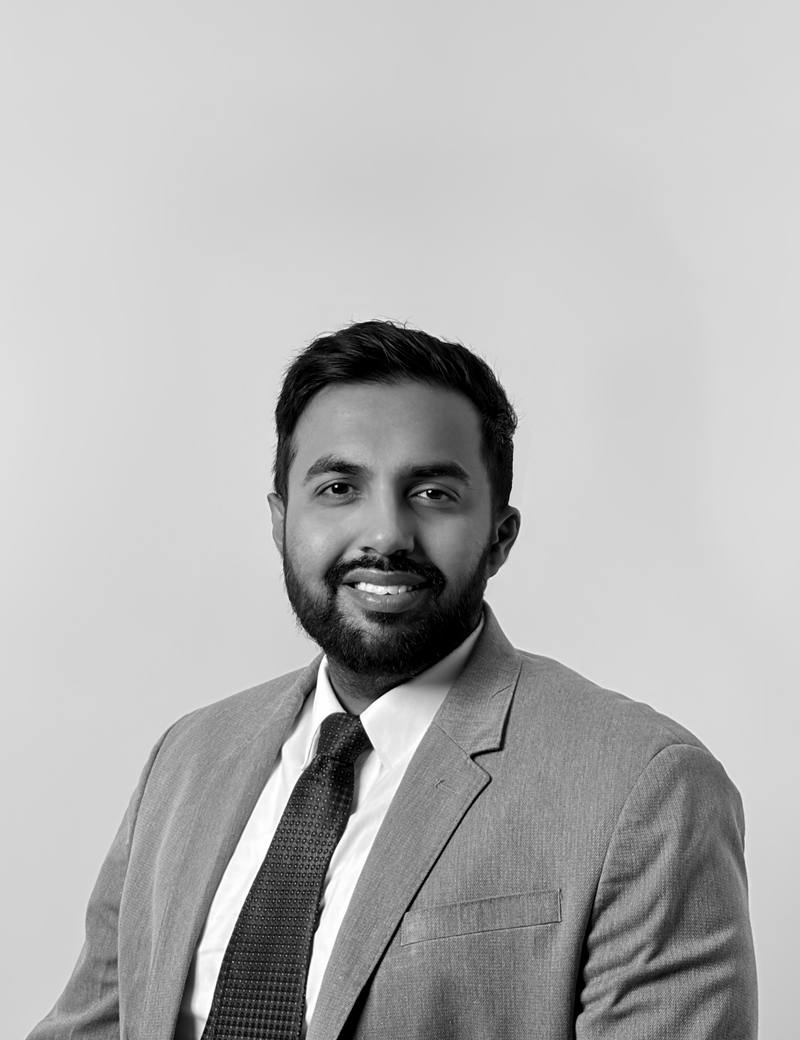
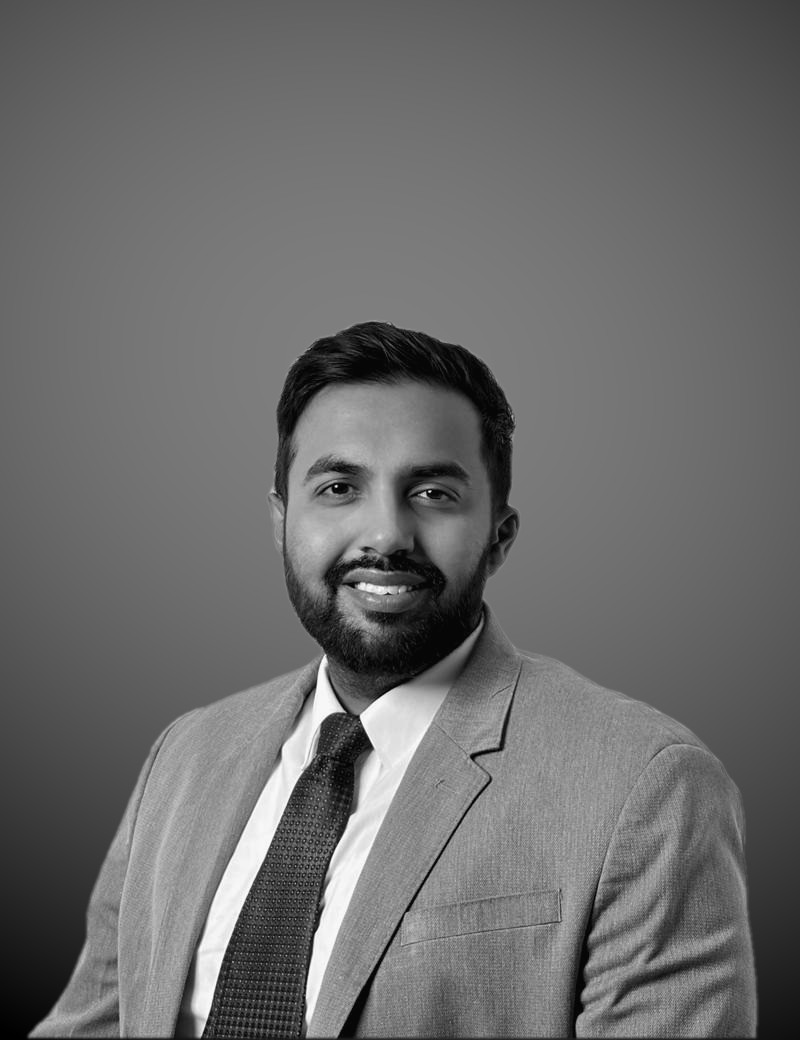
Put every portrait on one backdrop
Nine headshots from five shoots: a white cut-out, a near-black wall, two
different greys and the new 2026 set. Side by side in a four-across wall
they read as nine photographs, not one team.

The five new shots go in — Saurabh, Amit, Dhawal, Sanjay, and Ramesh,
who had an initials tile until now — and every portrait is rebuilt the
same way: greyscale, cropped so the face box is a third of the frame at
the same height, one tonal range, 720x960.

Sumit and Asif could not be matched by levels alone, so they are
composited onto the new set's backdrop, fitted as a quadratic from the
2026 shots. A threshold matte ate Asif's hair and glasses — both wall
and man sit in the same values — so the silhouette comes from Vision's
person segmentation. The founders keep their framing and resolution and
take the same ground.

Geetika's placeholder tile becomes a CSS approximation of that backdrop
too, so the one card with no photograph stops glaring out of the row.

scripts/portraits holds the pipeline; her headshot goes through it when
it arrives.

diff --git a/app/globals.css b/app/globals.css
@@ -2630,10 +2630,12 @@ html.is-locked body{overflow:hidden!important;height:100%!important;
 /* Greyscale in CSS, not on disk: nine photographs shot in nine places read as
    one set this way, and the colour originals stay untouched. */
 /* Stands in for a headshot the client has not sent: the person's initials on
-   the same soft grey the shot sits on while it loads. */
+   the studio backdrop the portraits were shot against, so the empty card sits
+   in the row instead of glaring out of it. */
 .tr-init{position:absolute;inset:0;display:grid;place-items:center;
-  background:var(--band-soft);color:#A9B0B7;font-weight:300;
-  font-size:2.4444rem;letter-spacing:.02em}
+  background:radial-gradient(115% 80% at 50% 33%,
+    #7f7f7f 0%,#646464 45%,#4c4c4c 72%,#101010 100%);
+  color:#C2C7CC;font-weight:300;font-size:2.4444rem;letter-spacing:.02em}
 .tr-shot img{object-fit:cover;filter:grayscale(1) contrast(1.04);
   transition:transform .6s var(--ease-out)}
 .tr-card:hover .tr-shot img,.tr-card:focus-visible .tr-shot img{transform:scale(1.04)}
@@ -2687,9 +2689,6 @@ html.is-locked body{overflow:hidden!important;height:100%!important;
 .tr-ovshot>span{position:relative;display:block;aspect-ratio:4/5;border-radius:10px;
   overflow:hidden;background:#fff}
 .tr-ovshot img{object-fit:cover;filter:grayscale(1)}
-/* The panel's own ground is that same soft grey, so the tile takes the frame's
-   white here or it disappears into the panel. */
-.tr-ovshot .tr-init{background:#fff}
 .tr-ovshot i{display:block;height:1px;margin-top:20px;background:var(--line)}
 .tr-close{position:absolute;top:24px;right:24px;width:46px;height:46px;border:0;
   border-radius:999px;display:grid;place-items:center;cursor:pointer;

diff --git a/lib/content/gamcs.ts b/lib/content/gamcs.ts
@@ -224,12 +224,12 @@ export const team = {
     { name: "Abhinav Aggarwal", title: "Co-Founder | FP&A, BI & Transformation Specialist", experience: "10+ years", location: "Delhi, India", linkedinUrl: "https://www.linkedin.com/in/abhinav-aggarwal-a29078172/", photo: "/team/abhinav-aggarwal-bw.jpg", email: "abhinav.aggarwal@gamcs.in" },
   ],
   /* Order is the client's: it is what the page prints, four to a row.
-     Ramesh and Geetika have no headshot or title yet, so their cards carry
-     an initials tile and the generic "Advisor" — both are placeholders,
-     waiting on the client. A card with no `photo` renders the tile. */
+     Ramesh has his headshot but no title yet, and Geetika has neither, so
+     "Advisor" stands in for both and her card carries an initials tile.
+     A card with no `photo` renders the tile. */
   advisory: [
     { name: "Sumit Chatterjee", title: "Shared Services Operations", experience: "30+ years", photo: "/team/sumit-chatterjee.jpg" },
-    { name: "Ramesh Yadav", title: "Advisor" },
+    { name: "Ramesh Yadav", title: "Advisor", photo: "/team/ramesh-yadav.jpg" },
     { name: "Amit Garg", title: "Audit & IPO Advisor", photo: "/team/amit-garg.jpg" },
     { name: "Dhawal Parvatikar", title: "Strategic Finance & CFO Advisory", experience: "15+ years", location: "Dubai, UAE", photo: "/team/dhawal-parvatikar.jpg" },
     { name: "Asif Masani", title: "BI & Analytics, FP&A Automation Specialist", experience: "15+ years", location: "Mumbai, India", photo: "/team/asif-masani.jpg" },

diff --git a/scripts/portraits/segment.swift b/scripts/portraits/segment.swift
@@ -1,0 +1,30 @@
+import Foundation
+import Vision
+import AppKit
+import CoreImage
+
+// segment <in> <outMaskPng>   — person mask at the image's own size, white = person.
+let args = Array(CommandLine.arguments.dropFirst())
+guard args.count == 2,
+      let img = NSImage(contentsOfFile: args[0]),
+      let cg = img.cgImage(forProposedRect: nil, context: nil, hints: nil) else {
+    FileHandle.standardError.write("usage: segment in.jpg mask.png\n".data(using: .utf8)!); exit(1)
+}
+let req = VNGeneratePersonSegmentationRequest()
+req.qualityLevel = .accurate
+req.outputPixelFormat = kCVPixelFormatType_OneComponent8
+let handler = VNImageRequestHandler(cgImage: cg, options: [:])
+try handler.perform([req])
+guard let pb = (req.results?.first)?.pixelBuffer else { print("NONE"); exit(2) }
+let ci = CIImage(cvPixelBuffer: pb)
+let scale = CGAffineTransform(scaleX: CGFloat(cg.width) / ci.extent.width,
+                              y: CGFloat(cg.height) / ci.extent.height)
+let scaled = ci.transformed(by: scale)
+let ctx = CIContext()
+guard let out = ctx.createCGImage(scaled, from: CGRect(x: 0, y: 0, width: cg.width, height: cg.height)),
+      let dest = CGImageDestinationCreateWithURL(URL(fileURLWithPath: args[1]) as CFURL, "public.png" as CFString, 1, nil) else {
+    print("FAIL"); exit(3)
+}
+CGImageDestinationAddImage(dest, out, nil)
+CGImageDestinationFinalize(dest)
+print("\(cg.width)x\(cg.height)")

diff --git a/scripts/portraits/faces.swift b/scripts/portraits/faces.swift
@@ -1,0 +1,23 @@
+import Foundation
+import Vision
+import AppKit
+
+// Prints: path<TAB>imgW,imgH<TAB>faceX,faceY,faceW,faceH (pixels, origin top-left) per detected face.
+for path in CommandLine.arguments.dropFirst() {
+    guard let img = NSImage(contentsOfFile: path),
+          let cg = img.cgImage(forProposedRect: nil, context: nil, hints: nil) else {
+        print("\(path)\tERROR load"); continue
+    }
+    let w = CGFloat(cg.width), h = CGFloat(cg.height)
+    let req = VNDetectFaceRectanglesRequest()
+    let handler = VNImageRequestHandler(cgImage: cg, options: [:])
+    do { try handler.perform([req]) } catch { print("\(path)\tERROR \(error)"); continue }
+    let faces = (req.results ?? [])
+    if faces.isEmpty { print("\(path)\t\(Int(w)),\(Int(h))\tNONE"); continue }
+    for f in faces {
+        let b = f.boundingBox // normalized, origin bottom-left
+        let x = b.origin.x * w, fw = b.size.width * w, fh = b.size.height * h
+        let y = (1 - b.origin.y - b.size.height) * h
+        print("\(path)\t\(Int(w)),\(Int(h))\t\(Int(x)),\(Int(y)),\(Int(fw)),\(Int(fh))")
+    }
+}

diff --git a/scripts/portraits/build.py b/scripts/portraits/build.py
@@ -1,0 +1,65 @@
+"""Normalise the roster portraits into one set: greyscale, one crop rule, one tonal range."""
+import os
+from PIL import Image
+import numpy as np, subprocess, sys
+
+# Where the originals were when this last ran. The 2026 shoot arrived through
+# chat, so SRC is a scratch folder rather than anything in the repo; point it at
+# wherever the next batch lands.
+SRC = os.environ.get('PORTRAIT_SRC', '.')
+REPO = os.path.dirname(os.path.dirname(os.path.dirname(os.path.abspath(__file__))))
+OUT = os.path.dirname(os.path.abspath(__file__)) + '/out'
+os.makedirs(OUT, exist_ok=True)
+
+# person -> source file, as of the last run. The two REPO paths were the
+# pre-2026 originals; those files have since been replaced by this script's own
+# output, so re-running against them would process an already-processed image —
+# take the originals out of git history (before the "one set" commit) instead.
+PEOPLE = [
+    ('sumit-chatterjee',  f'{REPO}/public/team/sumit-chatterjee.jpg'),
+    ('ramesh-yadav',      f'{SRC}/15.webp'),
+    ('amit-garg',         f'{SRC}/14.webp'),
+    ('dhawal-parvatikar', f'{SRC}/16.webp'),
+    ('asif-masani',       f'{REPO}/public/team/asif-masani.jpg'),
+    ('sanjay-rikhy',      f'{SRC}/17.webp'),
+    ('saurabh-aggarwal',  f'{SRC}/13.webp'),
+]
+FACE_FRAC = 0.34   # face-box height as a share of the frame
+FACE_Y    = 0.40   # where the face-box centre sits down the frame
+OUT_W, OUT_H = 720, 960   # 3:4, comfortably above the 640w the cards ever request
+
+def faces(paths):
+    exe = os.path.dirname(os.path.abspath(__file__)) + '/faces'
+    out = subprocess.run([exe, *paths], capture_output=True, text=True).stdout
+    d = {}
+    for line in out.strip().split('\n'):
+        p, size, box = line.split('\t')
+        if box == 'NONE': continue
+        x, y, w, h = (int(v) for v in box.split(','))
+        if p not in d or w * h > d[p][2] * d[p][3]:   # keep the largest face
+            d[p] = (x, y, w, h)
+    return d
+
+def crop_box(iw, ih, face):
+    fx, fy, fw, fh = face
+    ch = min(fh / FACE_FRAC, ih, iw / 0.75)
+    cw = ch * 0.75
+    cx = fx + fw / 2
+    cy = fy + fh / 2 - (FACE_Y - 0.5) * ch     # put the face centre at FACE_Y
+    left = min(max(cx - cw / 2, 0), iw - cw)
+    top = min(max(cy - ch / 2, 0), ih - ch)
+    return (round(left), round(top), round(left + cw), round(top + ch)), fh / ch
+
+def levels(a, lo_t=6, hi_t=244):
+    lo, hi = np.percentile(a, 0.5), np.percentile(a, 99.5)
+    return np.clip((a - lo) * (hi_t - lo_t) / max(hi - lo, 1) + lo_t, 0, 255)
+
+if __name__ == '__main__':
+    F = faces([p for _, p in PEOPLE])
+    for name, path in PEOPLE:
+        im = Image.open(path).convert('L')
+        box, frac = crop_box(*im.size, F[path])
+        im = im.crop(box).resize((OUT_W, OUT_H), Image.LANCZOS)
+        a = levels(np.asarray(im, dtype=float))
+        Image.fromarray(a.astype('uint8')).save(f'{OUT}/{name}.jpg', quality=90, optimize=True, progressive=True)
+        print(f'{name:20} src {os.path.basename(path):18} crop {box} face {frac*100:.1f}%')

diff --git a/scripts/portraits/plate.py b/scripts/portraits/plate.py
@@ -1,0 +1,39 @@
+"""Fit the studio backdrop of the new shots as a smooth 2D surface, so the two
+odd portraits can be put on the same ground."""
+from PIL import Image
+import numpy as np, os
+D = os.path.dirname(os.path.abspath(__file__))
+
+def bg_samples(img):
+    """Background pixels: the side margins full height + the top band, minus a
+    generous ellipse around where a head sits. Never the subject."""
+    a = np.asarray(img, dtype=float); h, w = a.shape
+    ys, xs = np.mgrid[0:h, 0:w]
+    x, y = xs / w, ys / h
+    side = (x < 0.10) | (x > 0.90)
+    top = y < 0.22
+    head = (((x - .5) / .34) ** 2 + ((y - .42) / .40) ** 2) < 1   # keep well clear
+    m = (side | top) & ~head
+    return x[m], y[m], a[m]
+
+def fit(x, y, v):
+    A = np.stack([np.ones_like(x), x, y, x * x, x * y, y * y], 1)
+    return np.linalg.lstsq(A, v, rcond=None)[0]
+
+def surface(c, w, h):
+    ys, xs = np.mgrid[0:h, 0:w]
+    x, y = xs / w, ys / h
+    return c[0] + c[1] * x + c[2] * y + c[3] * x * x + c[4] * x * y + c[5] * y * y
+
+if __name__ == '__main__':
+    X, Y, V = [], [], []
+    for n in ('saurabh-aggarwal', 'amit-garg', 'dhawal-parvatikar'):   # one backdrop, three shots
+        x, y, v = bg_samples(Image.open(f'{D}/out/{n}.jpg'))
+        X.append(x); Y.append(y); V.append(v)
+    c = fit(np.concatenate(X), np.concatenate(Y), np.concatenate(V))
+    np.save(f'{D}/plate.npy', c)
+    s = surface(c, 720, 960)
+    print('coeffs', np.round(c, 1))
+    print('plate corners TL/TR/BL/BR', [round(s[int(yy*959), int(xx*719)]) for yy, xx in ((.02,.02),(.02,.98),(.98,.02),(.98,.98))])
+    print('plate mid-sides L/R, behind head', round(s[480, 20]), round(s[480, 700]), round(s[300, 360]))
+    Image.fromarray(np.clip(s, 0, 255).astype('uint8')).save(f'{D}/plate.png')

diff --git a/scripts/portraits/ground.py b/scripts/portraits/ground.py
@@ -1,0 +1,35 @@
+"""Put an odd-one-out portrait on the set's own backdrop.
+
+Sumit was shot on a white sweep and Asif against a near-black wall; every other
+card is the same soft grey spotlight. Vision's person segmentation gives the
+silhouette (a threshold matte ate Asif's hair and glasses), and the subject is
+composited onto the fitted plate. The mask is pulled in a couple of pixels so no
+rim of the old backdrop survives at the edge.
+"""
+from PIL import Image, ImageFilter
+import numpy as np, subprocess, os, sys
+from scipy import ndimage
+D = os.path.dirname(os.path.abspath(__file__))
+from plate import surface
+
+def person_mask(path):
+    png = f'{D}/.mask.png'
+    r = subprocess.run([f'{D}/segment', path, png], capture_output=True, text=True)
+    if r.returncode != 0 or 'x' not in r.stdout:
+        raise RuntimeError(f'no person found in {path}: {r.stdout}{r.stderr}')
+    return np.asarray(Image.open(png).convert('L'), dtype=float) / 255
+
+def reground(path, out, erode=2, feather=1.2):
+    a = np.asarray(Image.open(path).convert('L'), dtype=float)
+    m = person_mask(path)
+    m = ndimage.binary_erosion(m > 0.5, iterations=erode).astype(float)
+    m = np.asarray(Image.fromarray((m * 255).astype('uint8')).filter(
+        ImageFilter.GaussianBlur(feather)), dtype=float) / 255
+    plate = surface(np.load(f'{D}/plate.npy'), *a.shape[::-1])
+    res = a * m + plate * (1 - m)
+    Image.fromarray(np.clip(res, 0, 255).astype('uint8')).save(out, quality=90, optimize=True, progressive=True)
+    print(f'{os.path.basename(out):22} subject {m.mean()*100:.1f}% of frame')
+
+if __name__ == '__main__':
+    for who in sys.argv[1:]:
+        reground(f'{D}/out/{who}.jpg', f'{D}/out/{who}.jpg')

diff --git a/scripts/portraits/README.md b/scripts/portraits/README.md
@@ -1,0 +1,30 @@
+# Portraits
+
+Every headshot on /team goes through this, so nine photographs from five
+different shoots read as one set: greyscale, one crop rule, one tonal range,
+and one studio backdrop.
+
+```
+swiftc -O faces.swift -o faces          # Vision: face boxes, for the crop
+swiftc -O segment.swift -o segment      # Vision: person mask, for the backdrop
+python3 build.py                        # crop + greyscale + levels -> out/
+python3 ground.py <name> [<name>…]      # put a portrait on the fitted backdrop
+```
+
+`build.py` holds the person → source-file list and the two numbers that set the
+framing: `FACE_FRAC` (the face box as a share of the frame) and `FACE_Y` (where
+it sits down the frame). A source tighter than `FACE_FRAC` is left at its own
+framing — the crop can only ever go in, never out.
+
+`plate.npy` is the backdrop: a quadratic fitted to the background of the 2026
+shoot (`plate.py` refits it). `ground.py` is for the odd ones out — Sumit was
+shot on a white sweep, Asif against a near-black wall. A threshold matte ate
+Asif's hair and glasses, so the silhouette comes from Vision's person
+segmentation instead.
+
+The `.tr-init` placeholder tile in globals.css is a CSS approximation of the
+same plate, so a card with no photograph sits in the row quietly.
+
+New photograph: drop it in the list in `build.py`, run the two steps, copy the
+result into `public/team/`. Check the result at 720×960 before shipping it —
+segmentation is good, not perfect.
